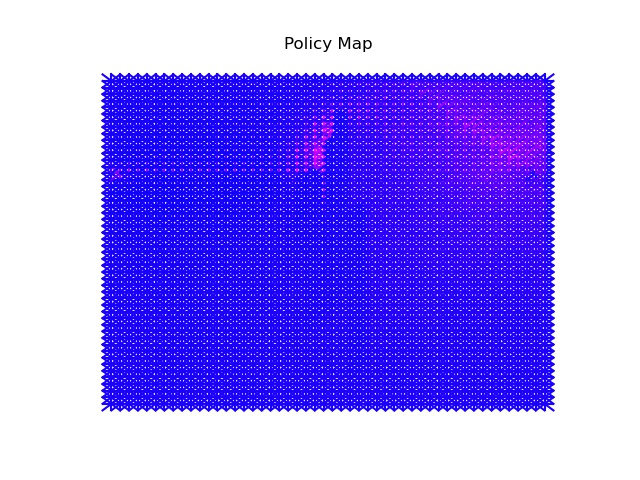
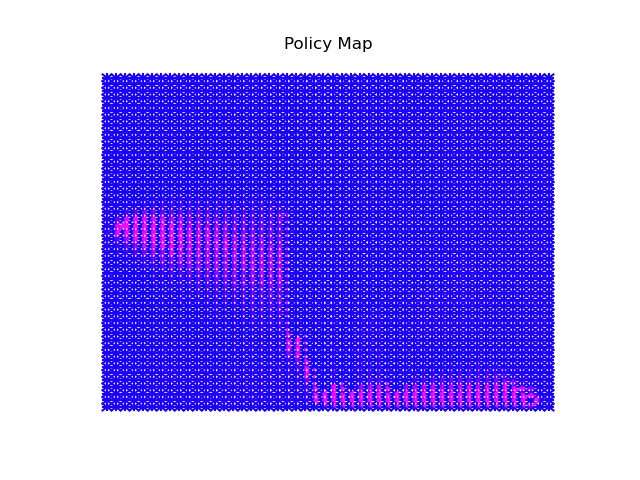
works

diff --git a/Question1/hw3.py b/Question1/hw3.py
@@ -13,6 +13,9 @@ import helper_functions as hf
 
 BATCH = 240  # batch size
 N_LAYER = 3  # number of Neuron layers
+INPUT_DIM = 2
+HIDDEM_DIM = 25
+OUTPUT_DIM = 2
 LEARNING_RATE = 5e-5
 I_MAX = 100000
 TRIALS = 10
@@ -26,7 +29,7 @@ def main():
     percentCorrectAnswers = []
     for trial in range(TRIALS):
         print(trial)
-        ann = buildPerceptron(N_LAYER, 2, 25, 2)
+        ann = buildPerceptron(N_LAYER, INPUT_DIM, HIDDEM_DIM, OUTPUT_DIM)
         costs = trainANN(ann)
         temp = testANN(ann)
         percentCorrectAnswers.append(temp)

diff --git a/Question2/hw3_2.py b/Question2/hw3_2.py
@@ -14,11 +14,11 @@ COOLING_FACTOR = 0.1
 INITIAL_TEMPERATURE = 3000
 MAP_X = 50
 MAP_Y = 50
-MAX_ITERATIONS = 1000
+MAX_ITERATIONS = 2000
 NUMBER_OF_ACTIONS = 8
-NUMBER_OF_TRIALS = 5000
-PUNISHMENT_VALUE = -1
-REWARD_VALUE = 1
+NUMBER_OF_TRIALS = 10000
+PUNISHMENT_VALUE = -10
+REWARD_VALUE = 2
 X_ACTIONS = [-1, 1, 0, 0, -1, -1, 1, 1]
 Y_ACTIONS = [0, 0, 1, -1, -1, 1, 1, -1]
 
